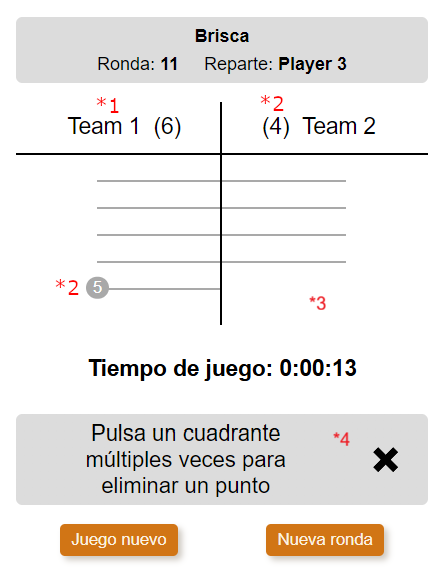
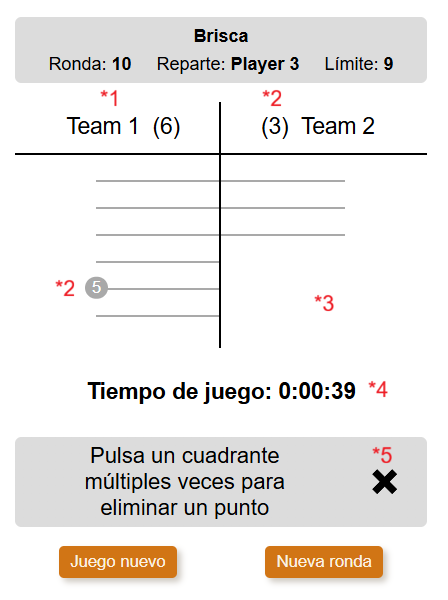
Added limit score to brisca game.

diff --git a/src/app/game-services/brisca.service.ts b/src/app/game-services/brisca.service.ts
@@ -15,9 +15,11 @@ const briscaFlags = [
   'gameConfig',
   'gameConfig:validation',
   'gameConfig:players',
+  'gameConfig:limitScore',
   'gameConfig:modality',
   'roundInfo:gameName',
   'roundInfo:dealingPlayer',
+  'roundInfo:limitScore',
   'bottomControls:newRound',
   'brisca',
   'enterScore:brisca',
@@ -106,7 +108,7 @@ export class BriscaService implements GameServiceWithFlags<BriscaFlags> {
   }
 
   public gameHasFinished(): boolean {
-    return false;
+    return this.scores.some(score => score >= this.limitScore);
   }
 
   //#endregion game:gameStartEnd
@@ -182,6 +184,7 @@ export class BriscaService implements GameServiceWithFlags<BriscaFlags> {
 
   public onStartGame(): void {
     this.modality = this.modalityFormControl.value;
+    this.limitScore = this.limitScoreFormControl.value;
 
     if (this.modality === 'individual') {
       this.playerNames = this.modalityIndividualTeamControl.value.playerNames.map((n) => n.trim());
@@ -204,6 +207,8 @@ export class BriscaService implements GameServiceWithFlags<BriscaFlags> {
   }
 
   public onEditConfigCurrentGame(): void {
+    this.limitScore = this.limitScoreFormControl.value;
+
     if (this.modality === 'individual') {
       this.dealingPlayerIndex = this.modalityIndividualTeamControl.value.dealingPlayerIndex;
 
@@ -269,10 +274,10 @@ export class BriscaService implements GameServiceWithFlags<BriscaFlags> {
       this.modalityTeamsTeam2Control.setValue(tempValue2);
     }
   }
-  
+
   public getPlayerNames(modality = this.modalityFormControl.value): string[] {
     if (modality === 'individual') {
-       return this.modalityIndividualTeamControl.value.playerNames;
+      return this.modalityIndividualTeamControl.value.playerNames;
     } else if (modality === 'teams') {
       return this.modalityTeamsTeam1Control.value.playerNames.flatMap((_, i) => ([
         this.modalityTeamsTeam1Control.value.playerNames[i],
@@ -284,6 +289,16 @@ export class BriscaService implements GameServiceWithFlags<BriscaFlags> {
   }
 
   //#endregion gameConfig:players
+
+  //#region gameConfig:limitScore
+
+  public limitScore: number = 9;
+
+  public limitScoreFormControl = this.fb.control(this.limitScore);
+
+  public numberOfScrollers: number = 2;
+
+  //#endregion
 
   //#region gameConfig:modality
 
@@ -307,6 +322,12 @@ export class BriscaService implements GameServiceWithFlags<BriscaFlags> {
   }
 
   //#endregion roundInfo:dealingPlayer
+
+  //#region roundInfo:limitScore
+
+  // limitScore: number -> property already declared by gameConfig:limitScore
+
+  //#endregion roundInfo:limitScore
 
   //#region bottomControls:newRound
 

diff --git a/src/app/components/round-info/round-info.component.spec.ts b/src/app/components/round-info/round-info.component.spec.ts
@@ -263,9 +263,13 @@ describe('RoundInfoComponent', () => {
       expect(numberOfCards).toBeNull();
     });
 
-    it('should not show the limit score', () => {
-      const limitScore = fixture.debugElement.query(By.css(SELECTORS.LIMIT_SCORE));
-      expect(limitScore).toBeNull();
+    it('should show the limit score', () => {
+      const limitScore = fixture.debugElement.query(By.css(SELECTORS.LIMIT_SCORE)).nativeElement;
+      expect(limitScore.textContent).toContain('Límite: 9');
+
+      gameService.limitScore = 11;
+      fixture.detectChanges();
+      expect(limitScore.textContent).toContain('Límite: 11');
     });
 
     it('should not show if the game has finished', () => {

diff --git a/src/app/views/game-config/game-config.component.spec.ts b/src/app/views/game-config/game-config.component.spec.ts
@@ -152,6 +152,11 @@ describe('GameConfigComponent', () => {
       fixture.detectChanges();
     });
 
+    it('should be possible to select the limit score', () => {
+      const limitScore = fixture.debugElement.query(By.css(SELECTORS.SELECTED_LIMIT_SCORE)).nativeElement.textContent;
+      expect(limitScore).not.toBeNull();
+    });
+    
     it('should be possible to select brisca game', () => {
       expect(component.selectedGameService.gameName).toBe('Brisca');
     });

diff --git a/docs/BRISCA.md b/docs/BRISCA.md
@@ -28,9 +28,9 @@ Allows to save the state of the game when a point is removed to a team or player
 
 ## Functional analysis
 
-On page load it checks if the banner explaining how to delete a point **(\*4)** has to be shown. It is shown each time a game starts or if it has been hidden for more than one day. The cross closes the banner and it is not shown after entering new points.
+On page load it checks if the banner explaining how to delete a point **(\*5)** has to be shown. It is shown each time a game starts or if it has been hidden for more than one day. The cross closes the banner and it is not shown after entering new points.
 
-The time the game lasts is calculated every second after the page loads, and it is the difference of time since the time started in [game config view](./GAME_CONFIG.md) and now.
+The time the game lasts **(\*4)** is calculated every second after the page loads, and it is the difference of time since the time started in [game config view](./GAME_CONFIG.md) and now.
 
 When the user clicks the quadrant **(\*3)** of a team or a player five times, a point is deleted for that team or player.
 

diff --git a/CHANGELOG.md b/CHANGELOG.md
@@ -2,6 +2,7 @@
 
 ## Unreleased version
 
+Added limit score in round info of brisca game.
 Added playing time to brisca game.
 
 ## 2.1.2
